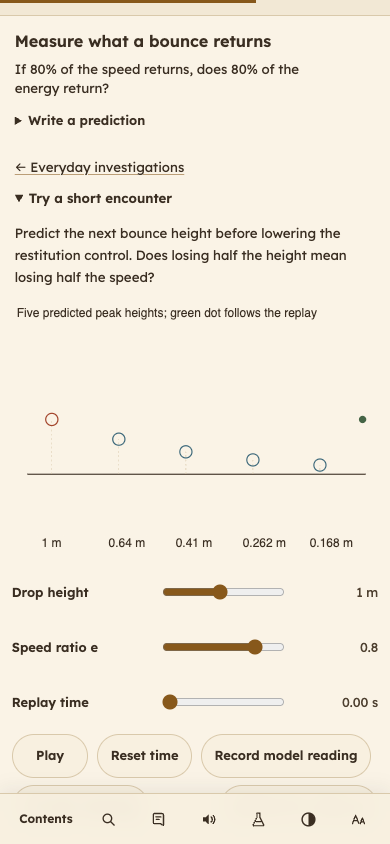
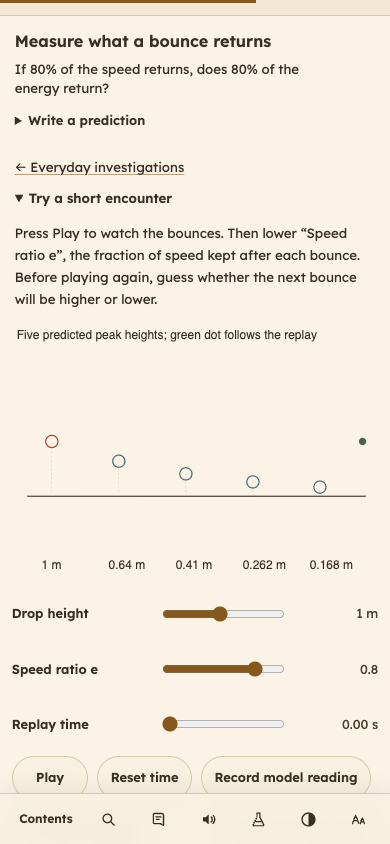
Record live reader verification and publication evidence

diff --git a/docs/kymaia-review.md b/docs/kymaia-review.md
@@ -40,3 +40,13 @@ All verification runs locally. `./source/check-reader.sh` repeats the release ch
 The review covers keyboard behavior, visible focus, labels, five screen widths and three themes, search, prediction/reveal persistence, disclosure deep links, narration selection, print content, observation editing, invalid input, CSV/Markdown/JSON exports, backup restoration, storage fallback and offline behavior. It does not certify complete accessibility, physical sensors, household apparatus, speech quality or Kymaia’s comprehension; those need a real learner and device trial.
 
 [The verification receipt](kymaia-verification.json) records exact counts, artifact hashes, deployment evidence and screenshots. The incoming live index matched `origin/main` exactly, so no direct live edits were overwritten. For rollback, the previous public static artifact is available in commit `f2a005e233d4c8b09914a4d37dd2d191b5d971f6`; restore its generated delivery files and publish them as a new commit, then verify its service-worker hash. Notebook data uses the same browser keys throughout.
+
+## Published result
+
+Published at [The Moving World](https://saxster.github.io/kym-physics/). The live index SHA-256 matches the final local artifact, and all 76 precached delivery files match byte for byte. A controlled replay of the captured previous live index/cache upgrades to the new cache and removes the old one; a previously unopened lesson works after an offline reload. Retained demonstrations work at 390 and 1440 px. The full reader journey also passes live at five widths and three themes with no relevant browser errors. The original in-app-browser visit was reloaded into the new edition, and its starter puzzle was opened and played.
+
+The complete catalog check covers 252 mobile/desktop cases: 240 passed the original raster check, and twelve text-only calculation cases passed the corrected narrow label check on rerun. The six exceptions still reject hidden labels; other scenes still require drawn marks. Local checks also passed nineteen Node test files, four catalog checks, three build-integrity checks, the new reader and narration journeys, existing investigation/export/storage/offline integration, 36 original live figures and four explorers. The main document is 3,984,873 bytes, below the 4 MiB budget.
+
+![The published opening](kymaia-review/04-live-opening.jpg)
+
+![The published starter puzzle](kymaia-review/05-live-puzzle.jpg)
